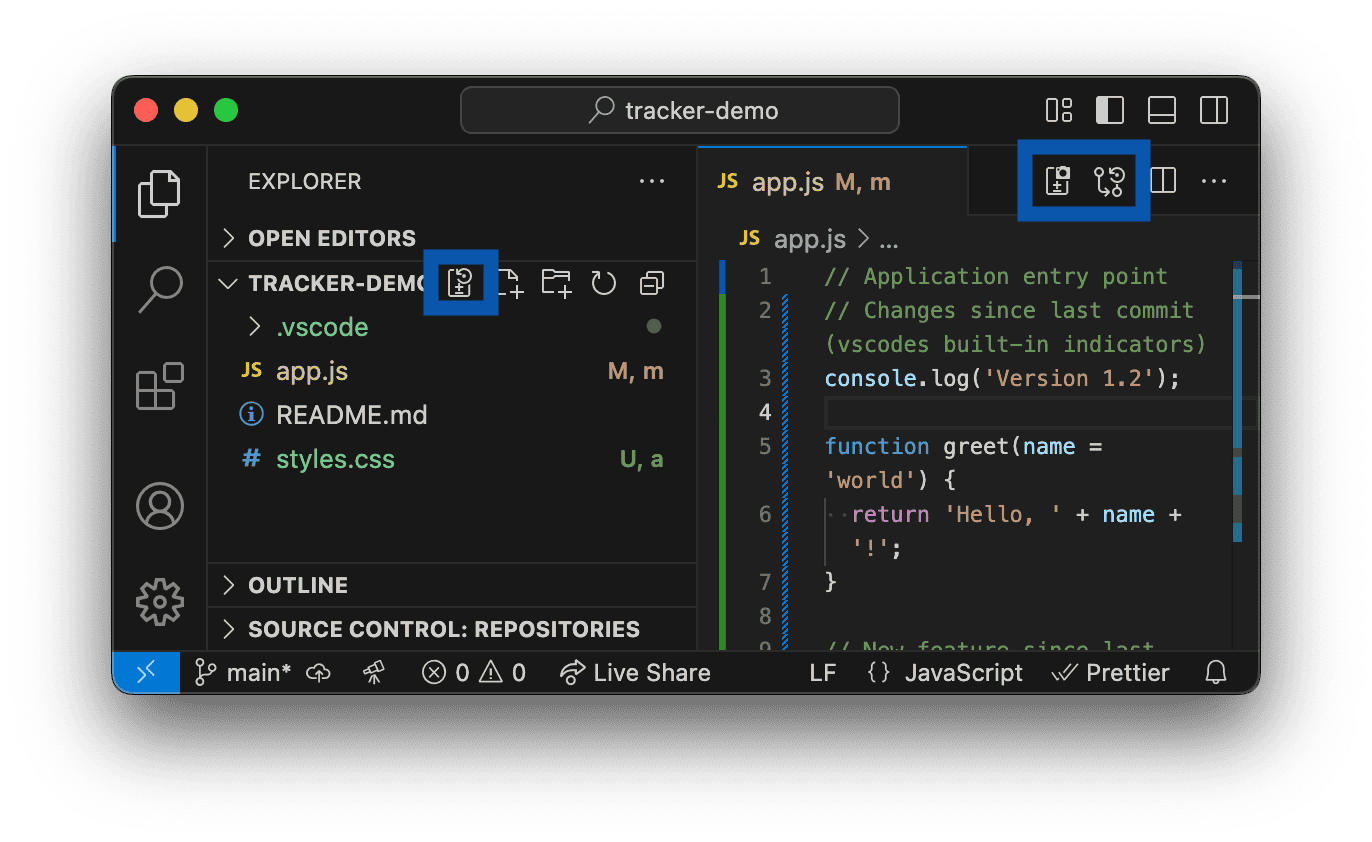
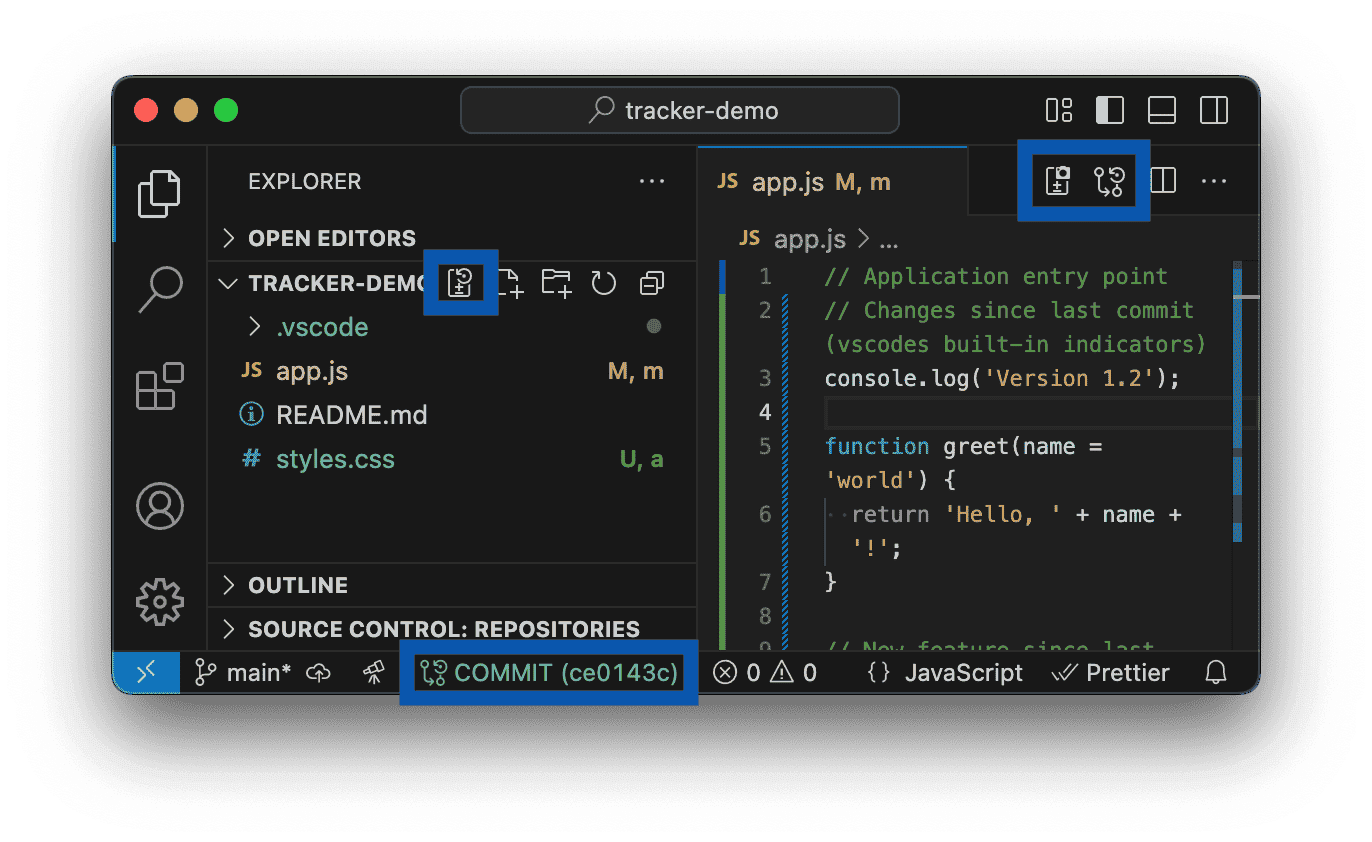
Add status bar

diff --git a/src/extension.ts b/src/extension.ts
@@ -32,7 +32,9 @@ class VirtualGitDiff {
   private addedFileDecoration!: CustomFileDecorationProvider;
   private modifiedFileDecoration!: CustomFileDecorationProvider;
   private diffTimeout?: NodeJS.Timeout;
+  private statusBarUpdateInterval: NodeJS.Timeout | undefined;
   private snapshotManager?: SnapshotManager;
+  private statusBarItem: vscode.StatusBarItem;
   public outputLevel: string = "error"; // error, log, warn, info
   public consoleLevel: string = "error warn"; // error, log, warn, info
 
@@ -86,6 +88,15 @@ class VirtualGitDiff {
     this.outputLevel = this.context.globalState.get<string>('sourceTracker.outputLevel', 'error');
     this.consoleLevel = this.context.globalState.get<string>('sourceTracker.consoleLevel', 'error warn');
 
+
+    // Create the status bar item
+    this.statusBarItem = vscode.window.createStatusBarItem(vscode.StatusBarAlignment.Left, 100);
+    this.statusBarItem.command = 'sourceTracker.gitTrackingOptions';
+    this.updateStatusBar();
+
+    // Set up periodic status bar updates
+    this.statusBarUpdateInterval = setInterval(() => this.updateStatusBar(), 30000); // Update every 30 seconds
+
     // Let’s log some initial info
     this.debug.info('Extension constructor called.');
     this.debug.log(`Loaded baseRef from storage: ${this.baseRef}`);
@@ -100,6 +111,109 @@ class VirtualGitDiff {
       this.debug.info(`Initialized snapshot manager for workspace: ${vscode.workspace.workspaceFolders[0].uri.fsPath}`);
     }
 
+  }
+
+
+  // Add a dispose method to clean up resources
+  dispose() {
+    if (this.statusBarUpdateInterval) {
+      clearInterval(this.statusBarUpdateInterval);
+      this.statusBarUpdateInterval = undefined;
+    }
+
+    this.statusBarItem.dispose();
+    // Clean up any other resources as needed
+  }
+
+  /**
+   * Updates the status bar item with the current tracking reference
+   */
+  private async updateStatusBar() {
+    // Check if active editor has an active snapshot
+    const editor = vscode.window.activeTextEditor;
+    if (editor &&
+        editor.document &&
+        editor.document.uri.scheme === 'file' &&
+        this.snapshotManager) {
+      const filePath = editor.document.uri.fsPath;
+      const activeSnapshot = this.snapshotManager.getActiveSnapshot(filePath);
+
+      if (activeSnapshot) {
+        const relativeTime = this.getRelativeTimeString(activeSnapshot.timestamp);
+        if (relativeTime?.includes('second')) {
+          setTimeout(() => this.updateStatusBar(), 500);
+        }
+        this.statusBarItem.text = `$(sti-snapshot-compare) ${relativeTime}`;
+        this.statusBarItem.tooltip = `SourceTracker: Tracking snapshot "${activeSnapshot.message || 'No description'}"`;
+        this.statusBarItem.command = 'sourceTracker.snapshotTrackingOptions';
+        this.statusBarItem.color = new vscode.ThemeColor('gitDecoration.modifiedResourceForeground');
+        this.statusBarItem.show();
+        return;
+      }
+    }
+    this.statusBarItem.command = 'sourceTracker.gitTrackingOptions';
+
+    // Fall back to git tracking if no snapshot is active
+    if (this.baseRef) {
+
+      let refName = this.baseRef;
+
+      if (refName === 'master main trunk default') {
+        refName = 'master/main';
+      }
+
+      let resolvedRef = 'inactive';
+      const editor = vscode.window.activeTextEditor;
+      if (editor &&
+          editor.document &&
+          editor.document.uri.scheme === 'file'
+      ) {
+        const filePath = editor.document.uri.fsPath;
+        const gitRoot = this.getGitRepoRoot(filePath);
+        if (!gitRoot) {
+          // this.debug.warn(`No Git root found for file: ${filePath}. Returning empty diff.`);
+          // strikethrough
+          resolvedRef = 'no git';
+        } else {
+          const relativePath = path.relative(gitRoot, filePath);
+          this.debug.log(`Git root: ${gitRoot}, Relative path: ${relativePath}`);
+          // 🔁 Dynamically resolve base ref for this file
+          resolvedRef = await this.resolveRefAsync(this.baseRef, gitRoot) || '';
+          if (!resolvedRef) {
+            resolvedRef = 'not found';
+            // this.debug.warn('Could not resolve base ref dynamically.');
+          } else {
+            // this.debug.log(`Resolved base ref: ${resolvedRef}`);
+            // If it's a hash, just show a shortened version
+            if (/^[0-9a-f]{40}$/i.test(resolvedRef)) {
+              resolvedRef = resolvedRef.substring(0, 7);
+            }
+          }
+        }
+      } else {
+        resolvedRef = 'inactive';
+      }
+
+      if (resolvedRef === refName && /^[0-9a-f]{7}$/i.test(resolvedRef) ) {
+        refName = 'COMMIT';
+      }
+
+      this.statusBarItem.text = `$(sti-tracking-compare) ${refName} (${resolvedRef})`;
+      this.statusBarItem.tooltip = `SourceTracker: Tracking changes against ${refName} (${resolvedRef})`;
+      if (resolvedRef === 'no git' || resolvedRef === 'inactive') {
+        this.statusBarItem.color = new vscode.ThemeColor('disabledForeground');
+      } else if (resolvedRef === 'not found') {
+        this.statusBarItem.color = new vscode.ThemeColor('gitDecoration.deletedResourceForeground');
+      } else {
+        this.statusBarItem.color = new vscode.ThemeColor('gitDecoration.addedResourceForeground');
+      }
+      this.statusBarItem.show();
+    } else {
+      this.statusBarItem.text = `$(sti-tracking-compare) (inactive)`;
+      this.statusBarItem.tooltip = 'SourceTracker: Click to select a tracking reference';
+      this.statusBarItem.color = new vscode.ThemeColor('disabledForeground');;
+      this.statusBarItem.show();
+    }
   }
 
   private initDecorations() {
@@ -143,7 +257,7 @@ class VirtualGitDiff {
       } : {}),
       ...(useBorder ? {
         borderStyle: 'solid',
-        borderWidth: '0 0 0 3px',
+        borderWidth: '0 0 0 1px',
         borderColor: new vscode.ThemeColor('editorGutter.modifiedBackground'),
       } : {}),
       ...(useModifiedBackground ? {
@@ -163,7 +277,7 @@ class VirtualGitDiff {
       } : {}),
       ...(useBorder ? {
         borderStyle: 'solid',
-        borderWidth: '0 0 0 3px',
+        borderWidth: '0 0 0 1px',
         borderColor: new vscode.ThemeColor('editorGutter.addedBackground'),
       } : {}),
       ...(useBackground ? {
@@ -183,7 +297,7 @@ class VirtualGitDiff {
       } : {}),
       ...(useBorder ? {
         borderStyle: 'solid',
-        borderWidth: '0 0 0 3px',
+        borderWidth: '0 0 0 1px',
         borderColor: new vscode.ThemeColor('editorGutter.addedBackground'),
       } : {}),
       ...(useBackground ? {
@@ -338,8 +452,12 @@ class VirtualGitDiff {
     // Register the file decoration providers
     this.context.subscriptions.push(
       vscode.window.registerFileDecorationProvider(this.addedFileDecoration),
-      vscode.window.registerFileDecorationProvider(this.modifiedFileDecoration)
+      vscode.window.registerFileDecorationProvider(this.modifiedFileDecoration),
+      this.statusBarItem
     );
+
+    // Show the status bar with the current tracking reference
+    this.updateStatusBar();
 
     // Attempt an initial decoration update
     if (this.diffTimeout) {
@@ -756,6 +874,7 @@ class VirtualGitDiff {
           const snapshotId = actionId.substring('snapshot:'.length);
           if (this.snapshotManager) {
             this.snapshotManager.setActiveSnapshot(filePath, snapshotId);
+            this.updateStatusBar();
             vscode.window.showInformationMessage(`Activated snapshot: ${selectedItem.description}`);
             this.updateActiveEditorContext();
             this.updateDecorations();
@@ -806,7 +925,7 @@ class VirtualGitDiff {
 
       // Create a backup of the current content first
       const currentContent = editor.document.getText();
-      this.snapshotManager.takeSnapshot(filePath, currentContent, "Backup Snapshot");
+      this.snapshotManager.takeSnapshot(filePath, currentContent, "* Backup");
 
       // Replace the editor content with the snapshot content
       const edit = new vscode.WorkspaceEdit();
@@ -858,6 +977,8 @@ class VirtualGitDiff {
       // Clear context when no editor is active
       vscode.commands.executeCommand('setContext', 'sourceTracker.hasActiveSnapshot', false);
     }
+
+    this.updateStatusBar();
   }
 
   private async clearSnapshot(filePath: string, allForFile = false) {
@@ -981,6 +1102,12 @@ class VirtualGitDiff {
   private handleDocChange(event: vscode.TextDocumentChangeEvent) {
     const activeEditor = vscode.window.activeTextEditor;
     if (activeEditor && event.document === activeEditor.document) {
+      // Skip non-file editors (output, terminal, webview, etc.)
+      if (activeEditor.document.uri.scheme === 'output') {
+        // dont output, since it can be recursive if we are outputting logs to output channel
+        // this.debug.log(`Ignoring changes for non-file editor: ${activeEditor.document.uri.scheme}`);
+        return;
+      }
       if (this.diffTimeout) {
         clearTimeout(this.diffTimeout);
       }
@@ -1446,6 +1573,9 @@ class VirtualGitDiff {
     // Persist the base ref to context
     await this.context.workspaceState.update('sourceTracker.trackingBaseRef', ref);
     this.debug.info(`Persisted baseRef to storage: ${ref}`);
+
+    // Update the status bar with the new tracking reference
+    this.updateStatusBar();
 
     // Update the VS Code context for when clauses
     await vscode.commands.executeCommand('setContext', 'sourceTracker.trackingBaseRef', ref);
@@ -2423,7 +2553,10 @@ export function activate(context: vscode.ExtensionContext) {
 }
 
 export function deactivate() {
-  // Optional cleanup
+  if (virtualGitDiff) {
+    virtualGitDiff.dispose();
+    virtualGitDiff = undefined as any;
+  }
 }
 
 // File snapshot handling
